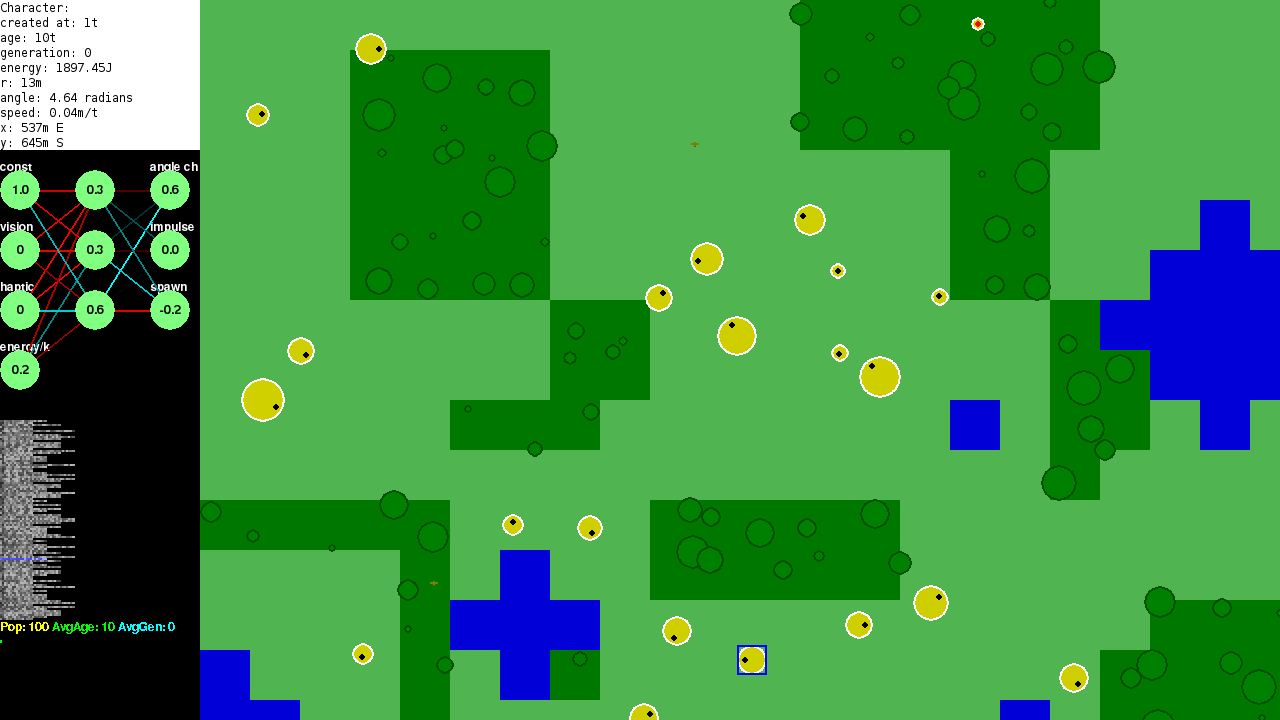
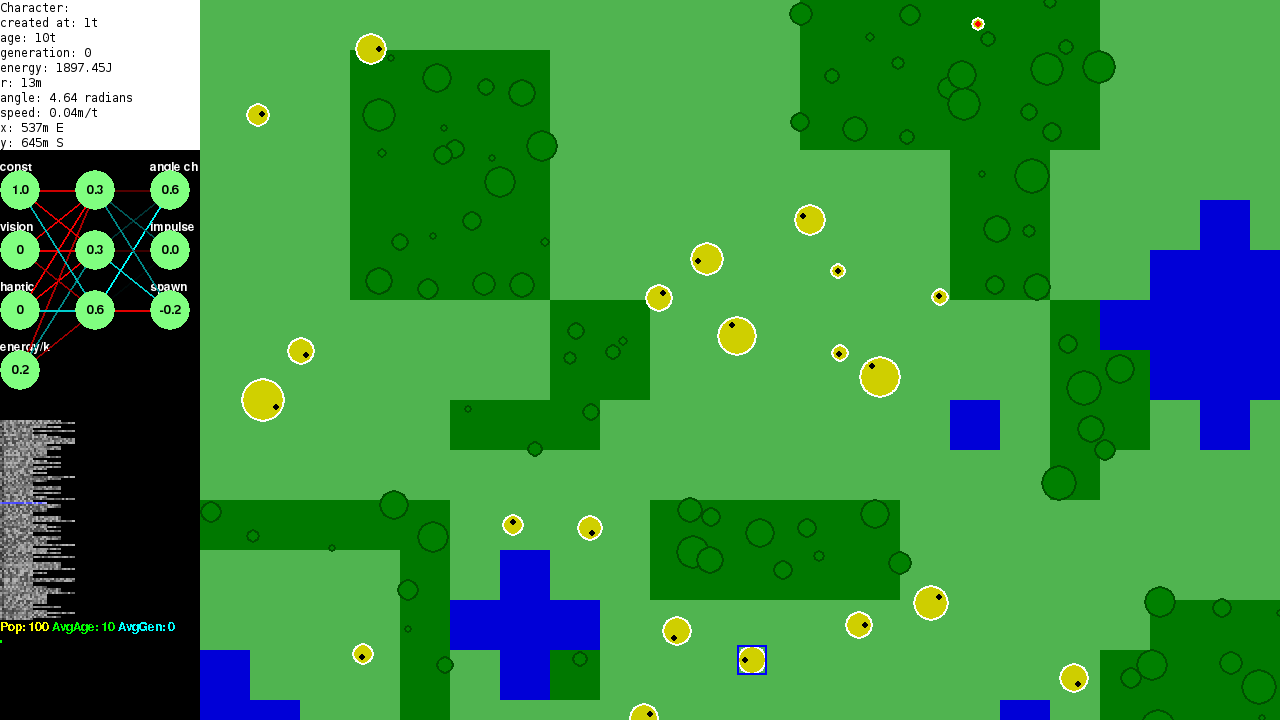
Allow trees and food to be selected items, for debugging

Changed region(s): [[0.0, 0.5806, 0.0625, 0.8556]]

diff --git a/novel-evolve/food.py b/novel-evolve/food.py
@@ -9,8 +9,8 @@ class Food(pygame.sprite.Sprite):
         self.tile = tile
         self.energy = 1000
 
-        w = 9
-        h = 5
+        w = self.w = 9
+        h = self.h = 5
         self.image = pygame.Surface((w, h), SRCALPHA).convert_alpha()
         self.rect = self.image.get_rect()
         self.rect.x = tile.rect.x + x
@@ -28,5 +28,12 @@ class Food(pygame.sprite.Sprite):
         if self.redraw:
             pygame.draw.ellipse(self.image, (96, 96, 0), Rect(3, 2, 3, 3), 0)
             pygame.draw.ellipse(self.image, (128, 128, 0), Rect(0, 0, 9, 5), 0)
+            if self.tile.world.active_item is self:
+                pygame.draw.lines(self.image, (0, 0, 255), 1, [
+                    (0, 0), (self.w - 1, 0), (self.w - 1, self.h - 1), (0, self.h - 1)
+                ], 3)
             self.redraw = False
+
+    def __str__(self):
+        return "Food at {},{}".format(self.rect.x, self.rect.y)
 

diff --git a/novel-evolve/tree.py b/novel-evolve/tree.py
@@ -25,6 +25,11 @@ class Tree(pygame.sprite.Sprite):
             return
         self.redraw = False
         r_r = self.r_r
-        pygame.draw.circle(self.image, (0, 80, 0), r_r, self.r, 0)
+        if self.tile.world.active_item is self:
+            pygame.draw.circle(self.image, (0, 0, 255), r_r, self.r, 0)
+        else:
+            pygame.draw.circle(self.image, (0, 80, 0), r_r, self.r, 0)
         pygame.draw.circle(self.image, (0, 128, 0), r_r, self.r - 2, 0)
 
+    def __str__(self):
+        return "Tree at {},{}".format(self.rect.x, self.rect.y)
